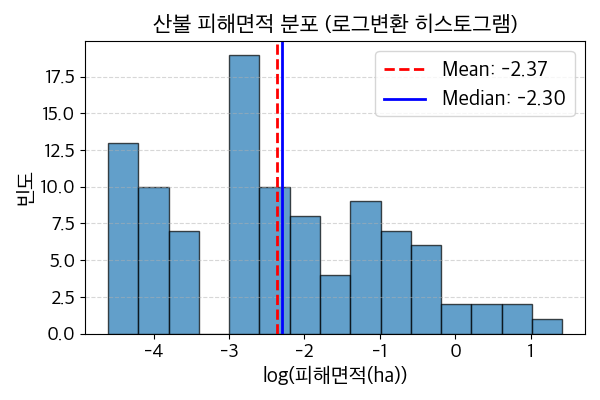
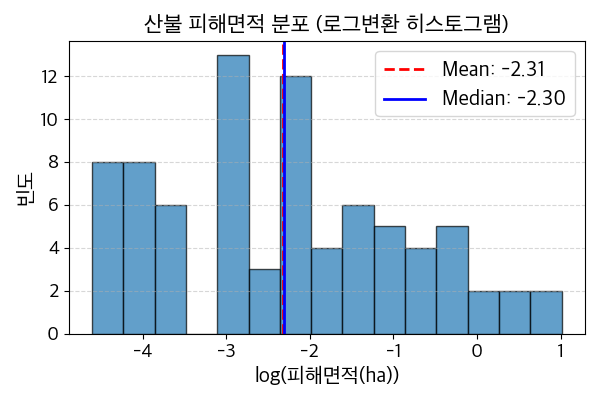
update

Changed region(s): [[0.06, 0.03, 0.96, 0.96], [0.9, 0.15, 0.93, 0.18]]

diff --git a/11_randomforest_stabilityselection.py b/11_randomforest_stabilityselection.py
@@ -1,0 +1,81 @@
+#%%
+import numpy as np
+import pandas as pd
+import matplotlib.pyplot as plt
+plt.rcParams["font.family"] = "Apple SD Gothic Neo"
+plt.rcParams["axes.unicode_minus"] = False
+from tqdm import tqdm
+
+from sklearn.ensemble import RandomForestClassifier
+#%%
+df = pd.read_csv("./data/cls_train_data.csv", parse_dates=["일시"])
+
+num_cols = list(df.select_dtypes(include="number").columns)
+weather_lag_cols = [c for c in num_cols if "lag" in c]
+
+X = df[weather_lag_cols].copy()
+y = df["target"].copy()
+#%%
+B = 50
+subsample_ratio = 0.5
+n_estimators = 100
+max_depth = None
+topk = 10
+
+rng = np.random.RandomState(42)
+n = X.shape[0]
+p = X.shape[1]
+#%%
+select_counts = np.zeros(p)
+
+for b in tqdm(range(B), desc="Random Forest..."):
+    # 1) subsampling
+    m = int(n * subsample_ratio)
+    idx = rng.choice(n, size=m, replace=False) # 비복원추출
+    Xb = X.iloc[idx].to_numpy()
+    yb = y.iloc[idx].to_numpy()
+
+    # 2) Random Forest classification
+    clf = RandomForestClassifier(
+        n_estimators=n_estimators,
+        max_depth=max_depth,
+        random_state=42,
+        class_weight="balanced"
+    )
+    clf.fit(Xb, yb)
+
+    # 3) 선택된 변수들 (중요도 기준 상위)
+    imp = clf.feature_importances_
+    top_idx = np.argsort(imp)[::-1][:topk]
+    selected_b = np.zeros(p)
+    selected_b[top_idx] = 1
+
+    # 4) 선택된 변수 횟수 체크
+    select_counts += selected_b
+#%%
+selection_prob = select_counts / B
+prob = pd.Series(selection_prob, index=X.columns).sort_values(ascending=False)
+prob.head(20)
+#%%
+pi_thr = 0.7
+stable_selected = prob[prob >= pi_thr].sort_index()
+print("최종적으로 선택된 변수 개수:", len(stable_selected))
+stable_selected
+#%%
+fig, ax = plt.subplots(figsize=(7,7))
+prob.head(30).sort_values().plot.barh(ax=ax)
+ax.axvline(
+    pi_thr,
+    color="red",
+    linestyle="--",
+    linewidth=2,
+    label=f"threshold = {pi_thr}"
+)
+ax.set_title("RF Stability Selection: Selection Probabilities (Top 30)")
+ax.set_xlabel("Selection probability")
+ax.legend(fontsize=12)
+plt.tight_layout()
+plt.savefig("./fig/11_randomforest_selection.png")
+plt.show()
+plt.close()
+#%%

diff --git a/10_lasso_stabilityselection.py b/10_lasso_stabilityselection.py
@@ -1,0 +1,80 @@
+#%%
+import numpy as np
+import pandas as pd
+import matplotlib.pyplot as plt
+plt.rcParams["font.family"] = "Apple SD Gothic Neo"
+plt.rcParams["axes.unicode_minus"] = False
+from tqdm import tqdm
+
+from sklearn.preprocessing import StandardScaler
+from sklearn.linear_model import LogisticRegression
+#%%
+df = pd.read_csv("./data/cls_train_data.csv", parse_dates=["일시"])
+
+num_cols = list(df.select_dtypes(include="number").columns)
+weather_lag_cols = [c for c in num_cols if "lag" in c]
+
+X = df[weather_lag_cols].copy()
+y = df["target"].copy()
+#%%
+scaler = StandardScaler()
+X_scaled = scaler.fit_transform(X)
+#%%
+B = 50
+subsample_ratio = 0.5
+C = 0.1
+eps = 1e-6
+
+rng = np.random.RandomState(42)
+n = X_scaled.shape[0]
+p = X_scaled.shape[1]
+#%%
+select_counts = np.zeros(p)
+
+for b in tqdm(range(B), desc="Logistic regression..."):
+    # 1) subsampling
+    m = int(n * subsample_ratio)
+    idx = rng.choice(n, size=m, replace=False) # 비복원추출
+    Xb = X_scaled[idx]
+    yb = y.iloc[idx].to_numpy()
+
+    # 2) LASSO logistic regression
+    clf = LogisticRegression(
+        l1_ratio=1.0, solver="saga",
+        C=C,
+        max_iter=5000, random_state=42
+    )
+    clf.fit(Xb, yb)
+
+    # 3) 선택된 변수들
+    selected_b = np.abs(clf.coef_[0]) > eps
+
+    # 4) 선택된 변수 횟수 체크
+    select_counts += selected_b.astype(int)
+#%%
+selection_prob = select_counts / B
+prob = pd.Series(selection_prob, index=X.columns).sort_values(ascending=False)
+prob.head(20)
+#%%
+pi_thr = 0.7
+stable_selected = prob[prob >= pi_thr].sort_index()
+print("최종적으로 선택된 변수 개수:", len(stable_selected))
+stable_selected
+#%%
+fig, ax = plt.subplots(figsize=(7,7))
+prob.head(30).sort_values().plot.barh(ax=ax)
+ax.axvline(
+    pi_thr,
+    color="red",
+    linestyle="--",
+    linewidth=2,
+    label=f"threshold = {pi_thr}"
+)
+ax.set_title("RF Stability Selection: Selection Probabilities (Top 30)")
+ax.set_xlabel("Selection probability")
+ax.legend(fontsize=12)
+plt.tight_layout()
+plt.savefig("./fig/10_lasso_selection.png")
+plt.show()
+plt.close()
+#%%

diff --git a/3_data_merge.py b/3_data_merge.py
@@ -1,5 +1,7 @@
 #%%
 import pandas as pd
+
+from sklearn.model_selection import train_test_split
 #%%
 sanbul_df = pd.read_csv("./data/sanbul_cleaned.csv", parse_dates=['발생일시', '진화종료시간'])
 weather_df = pd.read_csv("./data/weather_cleaned_lag.csv", parse_dates=['일시'])
@@ -52,6 +54,15 @@ assert reg_df.isna().sum().sum() == 0 # 결측치 없음을 확인
 
 reg_df.to_csv("./data/reg_data.csv", index=0)
 #%%
+reg_train, reg_test = train_test_split(
+    reg_df, test_size=0.2, random_state=42
+)
+print(reg_train.shape)
+print(reg_test.shape)
+
+reg_train.to_csv("./data/reg_train_data.csv", index=0)
+reg_test.to_csv("./data/reg_test_data.csv", index=0)
+#%%
 ### 분류모형 적합을 위한 데이터 생성
 # 피해면적_합계가 NaN이 아니라는 것은, 산불이 발생했음을 의미
 merge_df['target'] = (~merge_df['피해면적_합계'].isna()).astype(float)
@@ -68,4 +79,13 @@ cls_df = merge_df[cls_cols + weather_cols]
 assert cls_df.isna().sum().sum() == 0 # 결측치 없음을 확인
 
 cls_df.to_csv("./data/cls_data.csv", index=0)
+#%%
+cls_train, cls_test = train_test_split(
+    cls_df, test_size=0.2, random_state=42,
+)
+print(cls_train.shape)
+print(cls_test.shape)
+
+cls_train.to_csv("./data/cls_train_data.csv", index=0)
+cls_test.to_csv("./data/cls_test_data.csv", index=0)
 #%%

diff --git a/4_sanbul_eda.py b/4_sanbul_eda.py
@@ -4,11 +4,9 @@ import numpy as np
 import matplotlib.pyplot as plt
 plt.rcParams["font.family"] = "Apple SD Gothic Neo"
 plt.rcParams["axes.unicode_minus"] = False
-from sklearn.preprocessing import StandardScaler
-from sklearn.decomposition import PCA
 #%%
 ### 회귀모형에 사용할 데이터 EDA
-df = pd.read_csv("./data/reg_data.csv", parse_dates=['일시', '발생일시', '진화종료시간'])
+df = pd.read_csv("./data/reg_train_data.csv", parse_dates=['일시', '발생일시', '진화종료시간'])
 df.head()
 
 num_cols = df.select_dtypes(include='number').columns # 수치형 변수

diff --git a/5_weather_eda.py b/5_weather_eda.py
@@ -4,12 +4,9 @@ import numpy as np
 import matplotlib.pyplot as plt
 plt.rcParams["font.family"] = "Apple SD Gothic Neo"
 plt.rcParams["axes.unicode_minus"] = False
-from scipy import stats
-from sklearn.preprocessing import StandardScaler
-from sklearn.decomposition import PCA
 #%%
 ### 분류모형에 사용할 데이터 EDA
-df = pd.read_csv("./data/cls_data.csv", parse_dates=['일시'])
+df = pd.read_csv("./data/cls_train_data.csv", parse_dates=['일시'])
 df.head()
 
 num_cols = list(df.select_dtypes(include='number').columns) # 수치형 변수

diff --git a/6_sanbul_stat.py b/6_sanbul_stat.py
@@ -9,7 +9,7 @@ from sklearn.preprocessing import StandardScaler
 from sklearn.decomposition import PCA
 #%%
 ### 회귀모형에 사용할 데이터 불러오기
-df = pd.read_csv("./data/reg_data.csv", parse_dates=['일시', '발생일시', '진화종료시간'])
+df = pd.read_csv("./data/reg_train_data.csv", parse_dates=['일시', '발생일시', '진화종료시간'])
 df.head()
 
 num_cols = df.select_dtypes(include='number').columns # 수치형 변수

diff --git a/7_weather_stat.py b/7_weather_stat.py
@@ -9,7 +9,7 @@ from sklearn.preprocessing import StandardScaler
 from sklearn.decomposition import PCA
 #%%
 ### 분류모형에 사용할 데이터 EDA
-df = pd.read_csv("./data/cls_data.csv", parse_dates=['일시'])
+df = pd.read_csv("./data/cls_train_data.csv", parse_dates=['일시'])
 df.head()
 
 num_cols = list(df.select_dtypes(include='number').columns) # 수치형 변수
